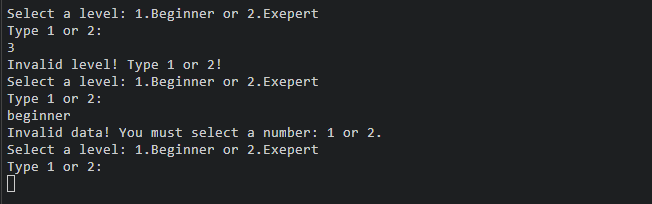
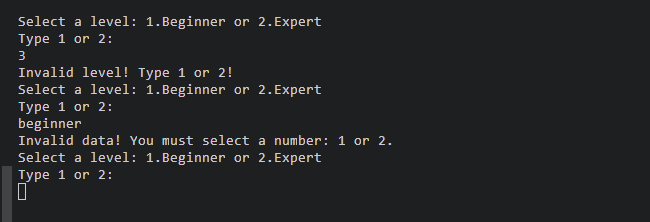
Fix typo and update README

Changed region(s): [[0.0, 0.2941, 0.6154, 1.0], [0.0, 0.0294, 0.4923, 0.2647]]

diff --git a/run.py b/run.py
@@ -161,7 +161,7 @@ def choose_level():
 
     while True:
         try:
-            level = int(input("Select a level: 1.Beginner or 2.Exepert\n"
+            level = int(input("Select a level: 1.Beginner or 2.Expert\n"
                               "Type 1 or 2:\n"))
             if level == 1:
                 GameBoard.size = 9

diff --git a/README.md b/README.md
@@ -32,6 +32,7 @@ The logic of this game was planned and structured in diagrams with [Lucidchart](
 - Levels:
     - The game begins with a brief guidance prompting the player to choose between two levels of difficulty.
     - The first level has a 9x9 board and 9 bombs and the second a 15x15 board and 35 bombs.
+
     ![Levels](assets/images/levels.png)
 
 - Place bombs at a random location and assign numbers to cells:
@@ -39,7 +40,7 @@ The logic of this game was planned and structured in diagrams with [Lucidchart](
     - After choosing the level the player can see the empty board and is prompted to select the coordinates of a cell.
     - The rows and columns are numbered to make it easier for the player to find the coordinates of a cell:
 
-    ![Initial empty board](assets/images/empty_board.png) 
+    ![Initial empty board](assets/images/initial_board.png) 
 
 - Bombs are represented by _*_
 - Recursion was used for the cells that contain a _0_: these cells do not have a neighboring bomb, so all the cells around them are automatically revealed, until a cell that has a bomb around is found:
